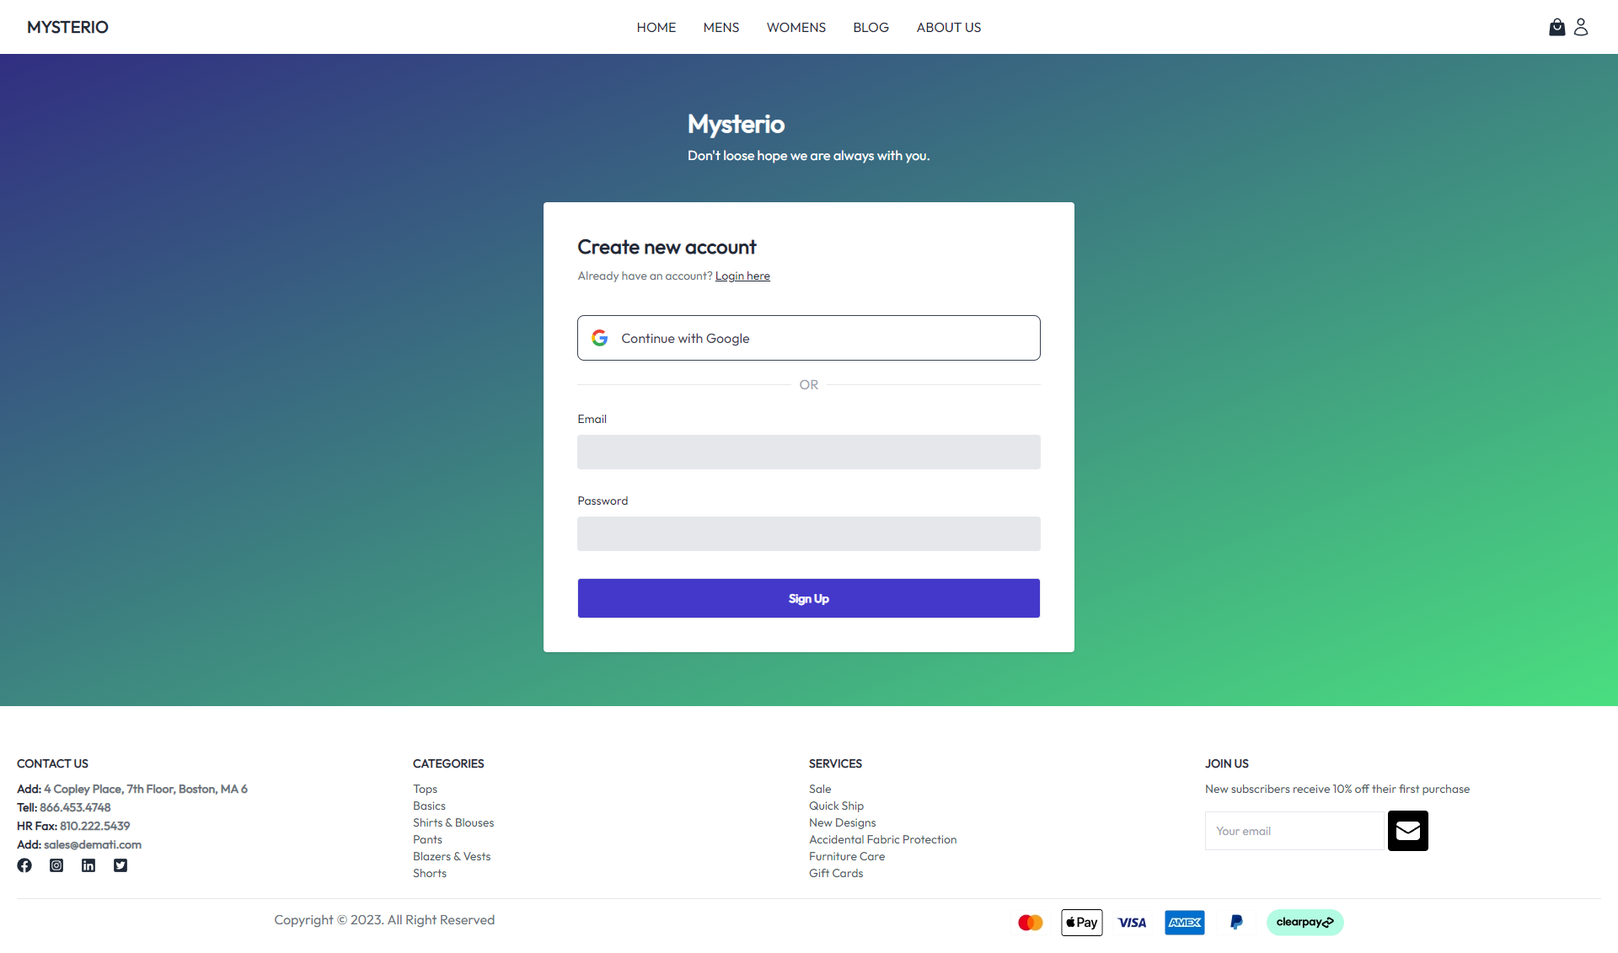
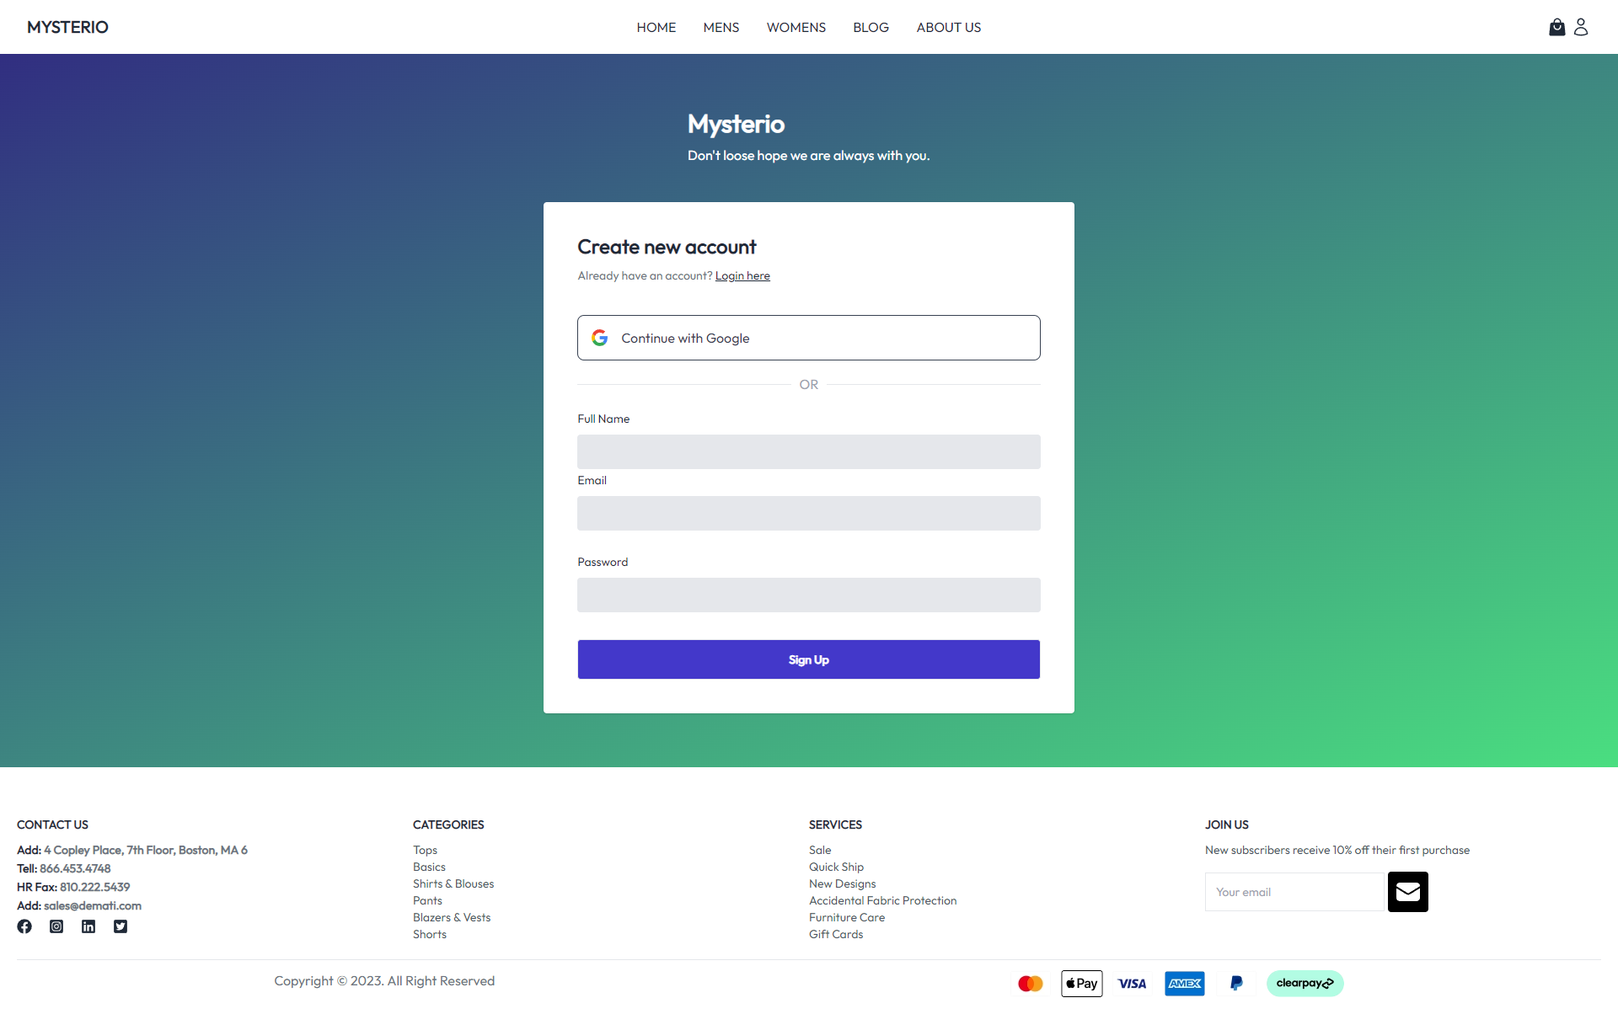
payment page designed

diff --git a/src/Pages/Payment/Payment.js b/src/Pages/Payment/Payment.js
@@ -1,0 +1,114 @@
+import React, { useState } from 'react';
+
+const Payment = () => {
+    const[show,setShow]=useState(false)
+    return (
+        <div>
+            <div className="py-12">
+                <div role="alert" className="container mx-auto w-11/12 md:w-2/3 max-w-lg">
+                    <h1 className='text-3xl font-semibold'>Payment Section</h1>
+                    <div className="relative py-8 px-5 md:px-10 bg-white  rounded ">
+                        <div className="w-full flex justify-start text-gray-600 mb-3">
+                            <svg xmlns="http://www.w3.org/2000/svg" className="icon icon-tabler icon-tabler-wallet" width={52} height={52} viewBox="0 0 24 24" strokeWidth={1} stroke="currentColor" fill="none" strokeLinecap="round" strokeLinejoin="round">
+                                <path stroke="none" d="M0 0h24v24H0z" />
+                                <path d="M17 8v-3a1 1 0 0 0 -1 -1h-10a2 2 0 0 0 0 4h12a1 1 0 0 1 1 1v3m0 4v3a1 1 0 0 1 -1 1h-12a2 2 0 0 1 -2 -2v-12" />
+                                <path d="M20 12v4h-4a2 2 0 0 1 0 -4h4" />
+                            </svg>
+                        </div>
+                        <h1 className="text-gray-800 font-lg font-bold tracking-normal leading-tight mb-4">Enter Billing Details</h1>
+                        <label htmlFor="name" className="text-gray-800 text-sm font-bold leading-tight tracking-normal">
+                            Owner Name
+                        </label>
+                        <input id="name" className="mb-5 mt-2 text-gray-600 focus:outline-none focus:border focus:border-indigo-700 font-normal w-full h-10 flex items-center pl-3 text-sm border-gray-300 rounded border" placeholder="James" />
+                        <label htmlFor="email2" className="text-gray-800 text-sm font-bold leading-tight tracking-normal">
+                            Card Number
+                        </label>
+                        <div className="relative mb-5 mt-2">
+                            <div className="absolute text-gray-600 flex items-center px-4 border-r h-full">
+                                <svg xmlns="http://www.w3.org/2000/svg" className="icon icon-tabler icon-tabler-credit-card" width={20} height={20} viewBox="0 0 24 24" strokeWidth="1.5" stroke="currentColor" fill="none" strokeLinecap="round" strokeLinejoin="round">
+                                    <path stroke="none" d="M0 0h24v24H0z" />
+                                    <rect x={3} y={5} width={18} height={14} rx={3} />
+                                    <line x1={3} y1={10} x2={21} y2={10} />
+                                    <line x1={7} y1={15} x2="7.01" y2={15} />
+                                    <line x1={11} y1={15} x2={13} y2={15} />
+                                </svg>
+                            </div>
+                            <input id="email2" className="text-gray-600 focus:outline-none focus:border focus:border-indigo-700 font-normal w-full h-10 flex items-center pl-16 text-sm border-gray-300 rounded border" placeholder="XXXX - XXXX - XXXX - XXXX" />
+                        </div>
+                        <label htmlFor="expiry" className="text-gray-800 text-sm font-bold leading-tight tracking-normal">
+                            Expiry Date
+                        </label>
+                        <div className="relative mb-5 mt-2">
+                            <div className="absolute right-0 text-gray-600 flex items-center pr-3 h-full cursor-pointer">
+                                <svg xmlns="http://www.w3.org/2000/svg" className="icon icon-tabler icon-tabler-calendar-event" width={20} height={20} viewBox="0 0 24 24" strokeWidth="1.5" stroke="currentColor" fill="none" strokeLinecap="round" strokeLinejoin="round">
+                                    <path stroke="none" d="M0 0h24v24H0z" />
+                                    <rect x={4} y={5} width={16} height={16} rx={2} />
+                                    <line x1={16} y1={3} x2={16} y2={7} />
+                                    <line x1={8} y1={3} x2={8} y2={7} />
+                                    <line x1={4} y1={11} x2={20} y2={11} />
+                                    <rect x={8} y={15} width={2} height={2} />
+                                </svg>
+                            </div>
+                            <input id="expiry" className="text-gray-600 focus:outline-none focus:border focus:border-indigo-700 font-normal w-full h-10 flex items-center pl-3 text-sm border-gray-300 rounded border" placeholder="MM/YY" />
+                        </div>
+                        <label htmlFor="cvc" className="text-gray-800 text-sm font-bold leading-tight tracking-normal">
+                            CVC
+                        </label>
+                        <div className="relative mb-5 mt-2">
+                            <div className="absolute right-0 text-gray-600 flex items-center pr-3 h-full cursor-pointer">
+                                <svg xmlns="http://www.w3.org/2000/svg" className="icon icon-tabler icon-tabler-info-circle" width={20} height={20} viewBox="0 0 24 24" strokeWidth="1.5" stroke="currentColor" fill="none" strokeLinecap="round" strokeLinejoin="round">
+                                    <path stroke="none" d="M0 0h24v24H0z" />
+                                    <circle cx={12} cy={12} r={9} />
+                                    <line x1={12} y1={8} x2="12.01" y2={8} />
+                                    <polyline points="11 12 12 12 12 16 13 16" />
+                                </svg>
+                            </div>
+                            <input id="cvc" className="mb-8 text-gray-600 focus:outline-none focus:border focus:border-indigo-700 font-normal w-full h-10 flex items-center pl-3 text-sm border-gray-300 rounded border" placeholder="MM/YY" />
+                        </div>
+                        <div className="flex items-center justify-start w-full">
+                            <button className="focus:outline-none transition duration-150 ease-in-out hover:bg-indigo-600 bg-indigo-700 rounded text-white px-8 py-2 text-sm" onClick={()=>setShow(!show)}>Submit</button>
+                            <button className="focus:outline-none ml-3 bg-gray-100 transition duration-150 text-gray-600 ease-in-out hover:border-gray-400 hover:bg-gray-300 border rounded px-8 py-2 text-sm" onclick="modalHandler()">
+                                Cancel
+                            </button>
+                        </div>
+                        <div className="cursor-pointer absolute top-0 right-0 mt-4 mr-5 text-gray-400 hover:text-gray-600 transition duration-150 ease-in-out" onclick="modalHandler()">
+                            <svg xmlns="http://www.w3.org/2000/svg" aria-label="Close" className="icon icon-tabler icon-tabler-x" width={20} height={20} viewBox="0 0 24 24" strokeWidth="2.5" stroke="currentColor" fill="none" strokeLinecap="round" strokeLinejoin="round">
+                                <path stroke="none" d="M0 0h24v24H0z" />
+                                <line x1={18} y1={6} x2={6} y2={18} />
+                                <line x1={6} y1={6} x2={18} y2={18} />
+                            </svg>
+                        </div>
+                    </div>
+                </div>
+            </div>
+            {show &&  <div className="py-12 bg-gray-200 dark:bg-gray-900 transition duration-150 ease-in-out z-10 absolute top-0 right-0 bottom-0 left-0" id="modal">
+                    <div role="alert" className="container mx-auto w-11/12 md:w-2/3 max-w-lg">
+                        <div className="relative py-8 px-8 md:px-16 bg-white dark:bg-gray-800 dark:border-gray-700 shadow-md rounded border border-gray-400">
+                            <div className="w-full flex justify-center text-green-400 mb-4">
+                                <svg xmlns="http://www.w3.org/2000/svg" className="icon icon-tabler icon-tabler-circle-check" width={56} height={56} viewBox="0 0 24 24" strokeWidth={1} stroke="currentColor" fill="none" strokeLinecap="round" strokeLinejoin="round">
+                                    <path stroke="none" d="M0 0h24v24H0z" />
+                                    <circle cx={12} cy={12} r={9} />
+                                    <path d="M9 12l2 2l4 -4" />
+                                </svg>
+                            </div>
+                            <h1 className="text-center text-gray-800 dark:text-gray-100 font-lg font-bold tracking-normal leading-tight mb-4">Payment Processing Successful</h1>
+                            <p className="mb-5 text-sm text-gray-600 dark:text-gray-400 text-center font-normal">Thank you for your payment. An automated payment receipt will be sent to your email. Check the action below for more details.</p>
+                            <div className="flex items-center justify-center w-full">
+                                <button className="focus:outline-none transition duration-150 ease-in-out hover:bg-indigo-600 bg-indigo-700 rounded text-white px-4 sm:px-8 py-2 text-xs sm:text-sm" onClick={()=>setShow(!show)} >Okay</button>
+                            </div>
+                            <div className="cursor-pointer absolute top-0 right-0 mt-4 mr-5 text-gray-400 hover:text-gray-600 dark:hover:text-gray-500 transition duration-150 ease-in-out" onClick={()=>setShow(!show)} >
+                                <svg xmlns="http://www.w3.org/2000/svg" aria-label="Close" className="icon icon-tabler icon-tabler-x" width={20} height={20} viewBox="0 0 24 24" strokeWidth="2.5" stroke="currentColor" fill="none" strokeLinecap="round" strokeLinejoin="round">
+                                    <path stroke="none" d="M0 0h24v24H0z" />
+                                    <line x1={18} y1={6} x2={6} y2={18} />
+                                    <line x1={6} y1={6} x2={18} y2={18} />
+                                </svg>
+                            </div>
+                        </div>
+                    </div>
+                </div>}
+        </div>
+    );
+
+};
+
+export default Payment;

diff --git a/src/Pages/Dashboard/Dashboard.js b/src/Pages/Dashboard/Dashboard.js
@@ -1,0 +1,85 @@
+import React, { useState } from 'react';
+import { Link } from 'react-router-dom';
+
+const Dashboard = () => {
+    const [show, setShow] = useState(false);
+
+  return (
+    <div className="bg-gray-50">
+      <div className="bg-white xl:hidden flex text-gray-800  hover:text-black focus:outline-none focus:text-black justify-between w-full p-6 items-center ">
+        <div aria-label="toggler" className="flex justify-center items-center">
+          <button id="open" onClick={() => setShow(!show)} aria-label="open" className={`${show ? "" : "hidden"} focus:outline-none focus:ring-2 focus:ring-offset-2 focus:ring-gray-800`}>
+            <svg className="text-gray-800" width={24} height={24} viewBox="0 0 24 24" fill="none" xmlns="http://www.w3.org/2000/svg">
+              <path d="M4 6H20" stroke="currentColor" strokeWidth="1.5" strokeLinecap="round" strokeLinejoin="round" />
+              <path d="M4 12H20" stroke="currentColor" strokeWidth="1.5" strokeLinecap="round" strokeLinejoin="round" />
+              <path d="M4 18H20" stroke="currentColor" strokeWidth="1.5" strokeLinecap="round" strokeLinejoin="round" />
+            </svg>
+          </button>
+          <button id="close" onClick={() => setShow(!show)} aria-label="close" className={`${show ? "hidden" : ""} focus:outline-none focus:ring-2 focus:ring-offset-2 focus:ring-gray-800`}>
+            <svg className="text-gray-800" width={24} height={24} viewBox="0 0 24 24" fill="none" xmlns="http://www.w3.org/2000/svg">
+              <path d="M18 6L6 18" stroke="currentColor" strokeWidth="1.5" strokeLinecap="round" strokeLinejoin="round" />
+              <path d="M6 6L18 18" stroke="currentColor" strokeWidth="1.5" strokeLinecap="round" strokeLinejoin="round" />
+            </svg>
+          </button>
+        </div>
+      </div>
+      <div id="Main" className={`${show ? "-translate-x-full" : "translate-x-0"} bg-white transform  xl:translate-x-0 ease-in-out transition duration-500 flex justify-start items-start w-full sm:w-72   flex-col h-full`}>
+        <Link to="/myorder" className="xl:mt-6 flex flex-col justify-start items-start  px-4 w-full space-y-3 pb-5 ">
+          <button className="focus:outline-none flex jusitfy-start hover:text-white focus:bg-indigo-700 focus:text-white hover:bg-indigo-700 text-gray-600 rounded py-3 pl-4 items-center space-x-6 w-full ">
+            <svg className="fill-stroke " width={24} height={24} viewBox="0 0 24 24" fill="none" xmlns="http://www.w3.org/2000/svg">
+              <path d="M9 4H5C4.44772 4 4 4.44772 4 5V9C4 9.55228 4.44772 10 5 10H9C9.55228 10 10 9.55228 10 9V5C10 4.44772 9.55228 4 9 4Z" stroke="currentColor" strokeWidth="1.5" strokeLinecap="round" strokeLinejoin="round" />
+              <path d="M19 4H15C14.4477 4 14 4.44772 14 5V9C14 9.55228 14.4477 10 15 10H19C19.5523 10 20 9.55228 20 9V5C20 4.44772 19.5523 4 19 4Z" stroke="currentColor" strokeWidth="1.5" strokeLinecap="round" strokeLinejoin="round" />
+              <path d="M9 14H5C4.44772 14 4 14.4477 4 15V19C4 19.5523 4.44772 20 5 20H9C9.55228 20 10 19.5523 10 19V15C10 14.4477 9.55228 14 9 14Z" stroke="currentColor" strokeWidth="1.5" strokeLinecap="round" strokeLinejoin="round" />
+              <path d="M19 14H15C14.4477 14 14 14.4477 14 15V19C14 19.5523 14.4477 20 15 20H19C19.5523 20 20 19.5523 20 19V15C20 14.4477 19.5523 14 19 14Z" stroke="currentColor" strokeWidth="1.5" strokeLinecap="round" strokeLinejoin="round" />
+            </svg>
+            <p className="text-base leading-4 ">My Orders</p>
+          </button>
+          <button className="focus:outline-none flex jusitfy-start hover:text-white focus:bg-indigo-700 focus:text-white hover:bg-indigo-700 text-gray-600 rounded py-3 pl-4  items-center w-full  space-x-6">
+          <svg className="fill-stroke " width={24} height={24} viewBox="0 0 24 24" fill="none" xmlns="http://www.w3.org/2000/svg">
+              <path d="M9 4H5C4.44772 4 4 4.44772 4 5V9C4 9.55228 4.44772 10 5 10H9C9.55228 10 10 9.55228 10 9V5C10 4.44772 9.55228 4 9 4Z" stroke="currentColor" strokeWidth="1.5" strokeLinecap="round" strokeLinejoin="round" />
+              <path d="M19 4H15C14.4477 4 14 4.44772 14 5V9C14 9.55228 14.4477 10 15 10H19C19.5523 10 20 9.55228 20 9V5C20 4.44772 19.5523 4 19 4Z" stroke="currentColor" strokeWidth="1.5" strokeLinecap="round" strokeLinejoin="round" />
+              <path d="M9 14H5C4.44772 14 4 14.4477 4 15V19C4 19.5523 4.44772 20 5 20H9C9.55228 20 10 19.5523 10 19V15C10 14.4477 9.55228 14 9 14Z" stroke="currentColor" strokeWidth="1.5" strokeLinecap="round" strokeLinejoin="round" />
+              <path d="M19 14H15C14.4477 14 14 14.4477 14 15V19C14 19.5523 14.4477 20 15 20H19C19.5523 20 20 19.5523 20 19V15C20 14.4477 19.5523 14 19 14Z" stroke="currentColor" strokeWidth="1.5" strokeLinecap="round" strokeLinejoin="round" />
+            </svg>
+            <p className="text-base leading-4 ">All Orders</p>
+          </button>
+          <button className="focus:outline-none flex justify-start items-center space-x-6 hover:text-white focus:bg-indigo-700 focus:text-white hover:bg-indigo-700 text-gray-600 rounded  py-3 pl-4  w-full ">
+            <svg width={24} height={24} viewBox="0 0 24 24" fill="none" xmlns="http://www.w3.org/2000/svg">
+              <path d="M8 19C10.2091 19 12 17.2091 12 15C12 12.7909 10.2091 11 8 11C5.79086 11 4 12.7909 4 15C4 17.2091 5.79086 19 8 19Z" stroke="currentColor" strokeWidth="1.5" strokeLinecap="round" strokeLinejoin="round" />
+              <path d="M10.85 12.15L19 4" stroke="currentColor" strokeWidth="1.5" strokeLinecap="round" strokeLinejoin="round" />
+              <path d="M18 5L20 7" stroke="currentColor" strokeWidth="1.5" strokeLinecap="round" strokeLinejoin="round" />
+              <path d="M15 8L17 10" stroke="currentColor" strokeWidth="1.5" strokeLinecap="round" strokeLinejoin="round" />
+            </svg>
+            <p className="text-base leading-4  ">Add Products</p>
+          </button>
+          <button className="flex justify-start items-center space-x-6 hover:text-white focus:outline-none focus:bg-indigo-700 focus:text-white hover:bg-indigo-700 text-gray-600 rounded py-3 pl-4  w-full ">
+            <svg width={24} height={24} viewBox="0 0 24 24" fill="none" xmlns="http://www.w3.org/2000/svg">
+              <path d="M8 21H12" stroke="currentColor" strokeWidth="1.5" strokeLinecap="round" strokeLinejoin="round" />
+              <path d="M10 21V3" stroke="currentColor" strokeWidth="1.5" strokeLinecap="round" strokeLinejoin="round" />
+              <path d="M10 4L19 8L10 12" stroke="currentColor" strokeWidth="1.5" strokeLinecap="round" strokeLinejoin="round" />
+            </svg>
+            <p className="text-base leading-4  ">Delivery Status</p>
+          </button>
+        </Link>
+        <div className="mt-36 flex  bg-indigo-700 justify-start space-x-2 items-center h-full py-4 px-3.5    w-full  ">
+          <div>
+            <img src="https://i.ibb.co/fxrbS6p/Ellipse-2-2.png" alt="avatar" />
+          </div>
+          <div className="flex flex-col justify-start items-start space-y-2">
+            <p className="cursor-pointer text-base leading-4 text-white">Alexis Enache</p>
+            <p className="cursor-pointer text-xs leading-3 text-gray-200">alexis _enache@gmail.com</p>
+          </div>
+          <button aria-label="visit" className=" focus:ring-2 focus:outline-none hover:bg-indigo-800 p-2.5 bg-indigo-600 rounded-full">
+            <svg width={20} height={20} viewBox="0 0 20 20" fill="none" xmlns="http://www.w3.org/2000/svg">
+              <path d="M4.16666 10H15.8333" stroke="white" strokeWidth="1.5" strokeLinecap="round" strokeLinejoin="round" />
+              <path d="M10.8333 15L15.8333 10" stroke="white" strokeWidth="1.5" strokeLinecap="round" strokeLinejoin="round" />
+              <path d="M10.8333 5L15.8333 10" stroke="white" strokeWidth="1.5" strokeLinecap="round" strokeLinejoin="round" />
+            </svg>
+          </button>
+        </div>
+      </div>
+    </div>
+  );
+};
+
+export default Dashboard;

diff --git a/src/Pages/ProductDetails/ProductDetails.js b/src/Pages/ProductDetails/ProductDetails.js
@@ -1,4 +1,5 @@
 import React, { useState } from 'react';
+import { Link } from 'react-router-dom';
 
 const ProductDetails = () => {
     const [color, setColor] = useState("White");
@@ -88,6 +89,9 @@ const ProductDetails = () => {
 
                             <div className="flex flex-col w-full space-y-4 mt-10">
                                 <button className="border border-gray-800 focus:outline-none focus:ring-2 focus:ring-offset-2 focus:ring-gray-800 md:w-96 w-full hover:bg-black text-base font-medium leading-4 bg-gray-800 py-4 text-white">Add to Bag</button>
+                                <Link to="/checkout">
+                                <button className="border border-gray-800 focus:outline-none focus:ring-2 focus:ring-offset-2 focus:ring-gray-800 md:w-96 w-full hover:bg-black text-base font-medium leading-4 bg-gray-800 py-4 text-white">Buy Now</button>
+                                </Link>
                             </div>
                         </div>
                         <button onClick={() => setMenu(false)} aria-label="show Menu" className="absolute top-4 right-4  md:top-6 md:right-6 focus:outline-none focus:ring-2  focus:ring-gray-800">

diff --git a/src/Pages/CheckOut/CheckOut.js b/src/Pages/CheckOut/CheckOut.js
@@ -112,7 +112,7 @@ const CheckOut = () => {
                             </div>
                             <input className="focus:outline-none focus:ring-2 focus:ring-gray-500 px-2 border-b border-gray-200 leading-4 text-base placeholder-gray-600 py-4   w-full" type="text" placeholder="Phone Number" />
                         </div>
-                        <button className="focus:outline-none focus:ring-2 focus:ring-gray-500 focus:ring-offset-2 mt-8 text-base font-medium focus:ring-2 focus:ring-ocus:ring-gray-800 leading-4 hover:bg-black py-4 w-full md:w-4/12 lg:w-full text-white bg-gray-800">Proceed to payment</button>
+                        <Link to="/payment" className="focus:outline-none  focus:ring-gray-500 focus:ring-offset-2 mt-8 text-base font-medium focus:ring-2 focus:ring-ocus:ring-gray-800 leading-4 hover:bg-black py-4 w-full md:w-4/12 lg:w-full text-white bg-gray-800 text-center">Proceed to payment</Link>
                     </div>
                     <div className="flex flex-col justify-start items-start bg-gray-50 w-full p-6 md:p-14">
                         <div>

diff --git a/src/Routes/Routes/Routes.js b/src/Routes/Routes/Routes.js
@@ -9,6 +9,9 @@ import Login from "../../Pages/Login/Login";
 import ProductDetails from "../../Pages/ProductDetails/ProductDetails";
 import CheckOut from "../../Pages/CheckOut/CheckOut";
 import SignUp from "../../Pages/SignUp/SignUp";
+import Payment from "../../Pages/Payment/Payment";
+import Dashboard from "../../Pages/Dashboard/Dashboard";
+import MyOrders from "../../Pages/Dashboard/MyOrders/MyOrders";
 
 const router = createBrowserRouter([
     {
@@ -50,6 +53,18 @@ const router = createBrowserRouter([
             {
                 path: '/checkout',
                 element: <CheckOut/>
+            },
+            {
+                path: '/payment',
+                element: <Payment/>
+            },
+            {
+                path: '/dashboard',
+                element: <Dashboard/>
+            },
+            {
+                path: '/myorder',
+                element: <MyOrders/>
             }
         ]
     }

diff --git a/src/Pages/SignUp/SignUp.js b/src/Pages/SignUp/SignUp.js
@@ -38,6 +38,10 @@ const SignUp = () => {
                         <hr className="w-full bg-gray-400  " />
                     </div>
                     <div>
+                        <lable className="text-sm font-medium leading-none text-gray-800">Full Name</lable>
+                        <input aria-label=""  type="email" className="bg-gray-200 border rounded focus:outline-none text-xs font-medium leading-none text-gray-800 py-3 w-full pl-3 mt-2" />
+                    </div>
+                    <div>
                         <lable className="text-sm font-medium leading-none text-gray-800">Email</lable>
                         <input aria-label="enter email adress" role="input" type="email" className="bg-gray-200 border rounded focus:outline-none text-xs font-medium leading-none text-gray-800 py-3 w-full pl-3 mt-2" />
                     </div>

diff --git a/src/Shared/Navbar/Navbar.js b/src/Shared/Navbar/Navbar.js
@@ -29,13 +29,11 @@ const Navbar = () => {
             <li><Link to="/women">womens</Link></li>
             <li><Link to="/blog">blog</Link></li>
             <li><Link to="/about">About us</Link></li>
+            {/* <li><Link to="/dashboard">Dashboard</Link></li> */}
           </ul>
         </div>
         <div className="navbar-end">
           <div className='flex items-center gap-1'>
-            <Link  onClick={() => setShow(!show)} className='text-2xl font-semibold' to="/cart">
-
-              </Link>
               <button onClick={() => setShow(!show)} className='text-2xl font-semibold' >
               <HiShoppingBag />
                     </button>

diff --git a/src/Pages/About/About.js b/src/Pages/About/About.js
@@ -9,7 +9,7 @@ const About = () => {
             <div className=''>
                 <img src={banner} alt="" />
             </div>
-            <div className="my-14 lg:flex items-center">
+            <div className="my-14 mx-5 lg:flex items-center">
                 <div className=''>
                     <p className='leading-10 font-black'>About Outfie</p>
                     <p className='w-3/4 text-gray-500'>Slowly she drifted to the southeast, rising higher and higher as the flames ateaway her wooden parts and diminished the weight upon her. Ascending to the roof of the building I watched her for hours until she was lost in the dim finally.</p>

diff --git a/src/Pages/Dashboard/MyOrders/MyOrders.js b/src/Pages/Dashboard/MyOrders/MyOrders.js
@@ -1,0 +1,11 @@
+import React from 'react';
+
+const MyOrders = () => {
+    return (
+        <div>
+            
+        </div>
+    );
+};
+
+export default MyOrders;
